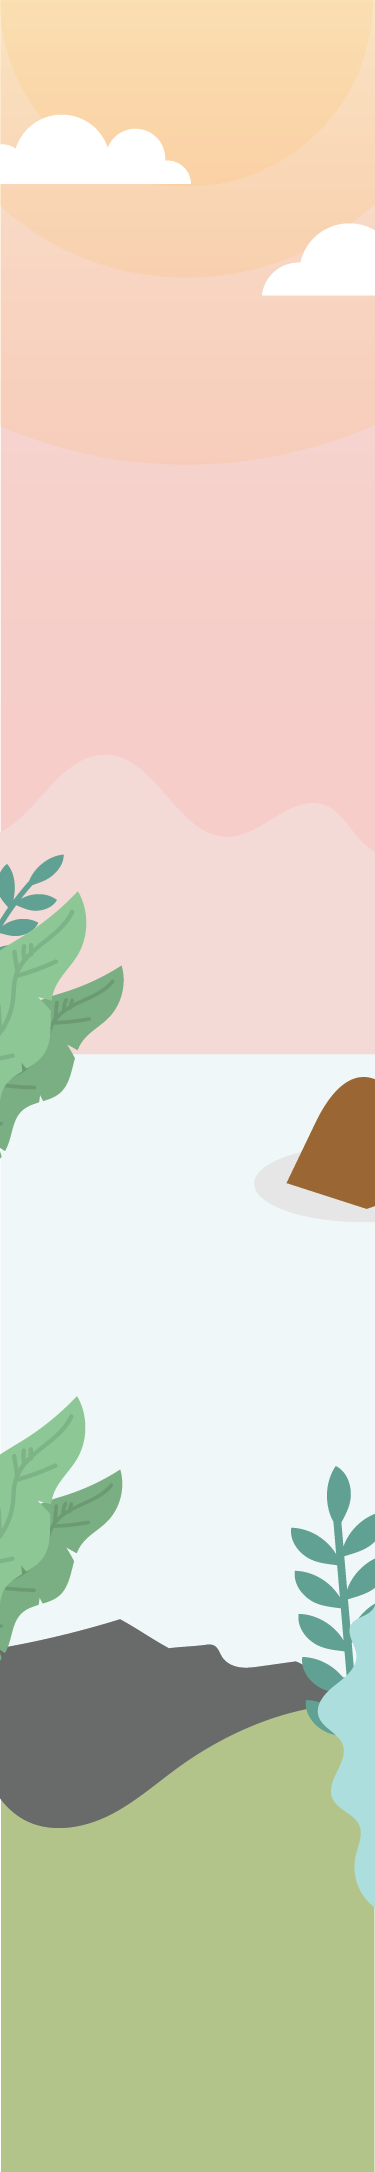
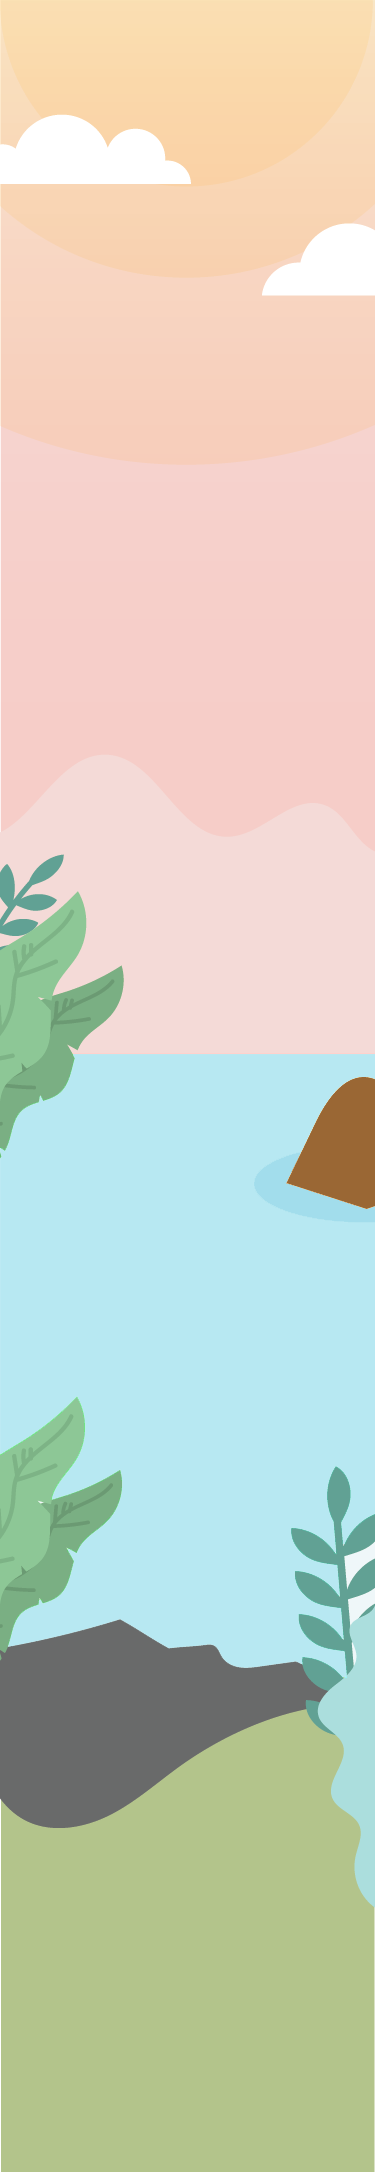
task collors

Changed region(s): [[0.0, 0.4627, 1.0, 0.7712]]

diff --git a/app/assets/stylesheets/components/_task_star.scss b/app/assets/stylesheets/components/_task_star.scss
@@ -6,11 +6,14 @@
   border-radius: 50%;
 
   &.task-star-completed {
-    border-color: $green;
-    box-shadow: inset 0 0 90px 0 rgba($green, 0.8), 0 0 15px 0 rgba($green, 0.7);
+    border-color: $green_star
+    ;
+    box-shadow: inset 0 0 90px 0 rgba($green_star
+      , 0.8), 0 0 15px 0 rgba($green, 0.7);
 
     svg {
-      fill: $green;
+      fill: $green_star
+      ;
     }
   }
 

diff --git a/app/assets/stylesheets/components/_programs.scss b/app/assets/stylesheets/components/_programs.scss
@@ -99,16 +99,16 @@ letter-spacing: 0.5px;
   justify-content: center;
 }
 .bt-green  {
-  border-color: $green-light;
+  border-color: $green_new;
 }
 .bt-yellow  {
   border-color: $yellow-light;
 }
 .bt-blue  {
-  border-color: $blue-light;
+  border-color: $blue_new;
 }
 .bt-red  {
-  border-color: $red-light;
+  border-color: $red_new;
 }
 .program-desc {
   font-family: Red Hat Text;

diff --git a/app/assets/stylesheets/config/_colors.scss b/app/assets/stylesheets/config/_colors.scss
@@ -24,6 +24,7 @@ $green_dark:        #89DB48;
 $green_very_dark:   #75A56D;
 $green_button:      #D1EECC;
 $green_new:         #B8F689;
+$green_star:        #72CD2D;
 $red_dark:          #F88181;
 $red_light:         #FFC5C5;
 $red_very_light:    #FAF8F9;
